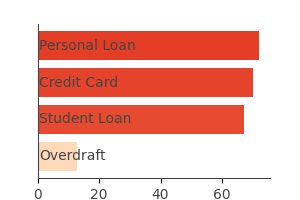
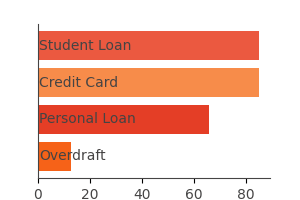
all graphs now use the same colour scheme

diff --git a/application/templates/debt_detail.html b/application/templates/debt_detail.html
@@ -7,19 +7,19 @@
 		{% if approach == 'stack' %}
 			<h1>Stack Repayments</h1>
 			<h4>Debt Free after {{ results.get_stack_time() }}</h4>
-			<p>&pound;{{ '{:,.2f}'.format(results.get_stack_cost()) }}</p>
+			<p>Total Repayment Cost &pound;{{ '{:,.2f}'.format(results.get_stack_cost()) }}</p>
 
 
 		{% elif approach == 'snowball' %}
 			<h1>Snowball Repayments</h1>
 			<h4>Debt Free after {{ results.get_snowball_time() }}</h4>
-			<p>&pound;{{ '{:,.2f}'.format(results.get_snowball_cost()) }}</p>
+			<p>Total Repayment Cost &pound;{{ '{:,.2f}'.format(results.get_snowball_cost()) }}</p>
 
 
 		{% else %}
 			<h1>Avalanche Repayments</h1>
 			<h4>Debt Free after {{ results.get_avalanche_time() }}</h4>
-			<p>&pound;{{ '{:,.2f}'.format(results.get_avalanche_cost()) }}</p>
+			<p>Total Repayment Cost &pound;{{ '{:,.2f}'.format(results.get_avalanche_cost()) }}</p>
 
 
 		{% endif %}
@@ -51,18 +51,13 @@
 	<!-- add bar chart and make them side by side for bigger screens -->
 
 	<div>
-		<p>Repayments Table Details:
-			<ul>
-				<li>Total Sum of Debt outstanding</li>
-				<li>Which Debt to target each month</li>
-				<li>The amount of the extra repayment</li>
-			</ul></p>
+		<p>Repayments Table</p>
 		<table class="debt_detail">
 			<tr>
-				<th></th>
-				<th>Balance</th>
-				<th></th>
-				<th>Amount £</th>
+				<th>Month</th>
+				<th>Outstanding</th>
+				<th>Targeted Debt</th>
+				<th>Extra Repayment</th>
 			</tr>
 			{% for method, data in results.get_repayments_dict().items() %}
 				{% if method == approach %}

diff --git a/application/templates/results.html b/application/templates/results.html
@@ -26,8 +26,7 @@
             </div>
 
             <div style="text-align: center;">
-                <p><span>Stack by interest rate</span></p>
-                <p>&pound;{{ '{:,.2f}'.format(results.get_stack_cost()) }}</p>
+                <p><span>Stack by interest rate<br>&pound;{{ '{:,.2f}'.format(results.get_stack_cost()) }}</span></p>
             </div>
 
             <div>
@@ -48,8 +47,7 @@
             </div>
 
             <div style="text-align: center;">
-                <p><span>Tackle smaller debts first</span></p>
-                <p>&pound;{{ '{:,.2f}'.format(results.get_snowball_cost()) }}</p>
+                <p><span>Tackle smaller debts first<br>&pound;{{ '{:,.2f}'.format(results.get_snowball_cost()) }}</span></p>
             </div>
 
             <div>
@@ -70,8 +68,7 @@
             </div>
 
             <div style="text-align: center;">
-                <p><span>Everything on the big debt</span></p>
-                <p>&pound;{{ '{:,.2f}'.format(results.get_avalanche_cost()) }}</p>
+                <p><span>Everything on the big debt<br>&pound;{{ '{:,.2f}'.format(results.get_avalanche_cost()) }}</span></p>
             </div>
 
             <div>

diff --git a/application/static/styles/style.css b/application/static/styles/style.css
@@ -99,11 +99,12 @@ tr {
 	background-color: #D2D4C8;
 	color: var(--links);
 	}
-.debt_detail tr:nth-child(12n + 2){
+.debt_detail tr:nth-child(12n + 1){
 	background-color: coral;
 }
 .debt_detail th, td {
-	padding: 0;
+	padding: 5px;
+	font-weight: 300;
 }
 .debt_detail tr {
 	text-align: center;

diff --git a/application/data_visualisation.py b/application/data_visualisation.py
@@ -15,23 +15,37 @@ class Graphs:
 		debt_labels = []
 		for debt_obj in self.debt_collection:
 			debt_names.append(debt_obj.get_identifier())
+			id = debt_obj.get_identifier()
 			apr = debt_obj.get_interest()
-			name = f"APR{apr}%"
+			name = f"{id}\nAPR{apr}%"
 			debt_labels.append(name)
 			debt_figures.append(debt_obj.get_amount())
 		self.debt_pie(debt_figures, debt_names, debt_labels)
 	
 	def debt_pie(self, debt_figures, debt_names, debt_labels):
 		plt.switch_backend('Agg') # this changes where the computer generates the chart because that causes a problem on the Mac but not on windows
-		plt.figure(figsize=(3,2))
+		#plt.figure(figsize=(4,2))
+		fig, ax = plt.subplots(figsize=(3,2))
 		orange_shades = ['#f66218', '#e43e26', '#f78c4a', '#eb5940', '#d4460e', '#f8a57d', '#c62f16', '#f26c51', '#d14113']
-		wedges, texts = plt.pie(debt_figures, labels=debt_names, labeldistance=0.5, colors=orange_shades)
-		plt.axis('equal')
+		wedges, texts = plt.pie(debt_figures, labeldistance=0.5, colors=orange_shades)
+		ax.axis('equal')
 		colour_rgb = (69/255, 68/255, 68/255)
-		for text in texts:
+		# for text in texts:
+		# 	text.set_color(colour_rgb)
+		# plt.title('Debt Summary', loc='left',  color=colour_rgb)
+		# Set title with adjusted x position
+		ax.set_title('Debt Summary', color=colour_rgb, x=0.5)  # Adjust the x value as needed
+
+
+		# Adjust the position of the axes
+		box = ax.get_position()
+		ax.set_position([box.x0 - 0.25, box.y0, box.width, box.height])  
+		# Adjust the x0 position
+
+
+		legend = ax.legend(labels=debt_labels, loc="upper right", bbox_to_anchor=(1.5, 1), framealpha=0) #Framealpha makes the background of the legend transparent
+		for text in legend.get_texts():
 			text.set_color(colour_rgb)
-		plt.title('Debt Summary', loc='left', color=colour_rgb)
-		# plt.legend(labels=debt_labels, loc="upper right")
 		plt.savefig('application/static/images/debt_pie.png', transparent=True)
 		return 'pie chart created'
 	
@@ -57,10 +71,8 @@ class Graphs:
 	
 	def debt_bar_stack(self, debt_name, paid):
 		plt.figure(figsize=(3,2))
-		cmap = mcolors.LinearSegmentedColormap.from_list('custom_orange', ['#FFDAB9', '#e43e26'])
-		norm = plt.Normalize(min(paid), max(paid))
-		colors = cmap(norm(paid))
-		bars = plt.barh(debt_name, paid, color=colors)
+		orange_shades = ['#f66218', '#e43e26', '#f78c4a', '#eb5940', '#d4460e', '#f8a57d', '#c62f16', '#f26c51', '#d14113']
+		bars = plt.barh(debt_name, paid, color=orange_shades)
 		colour_rgb = (69/255, 68/255, 68/255)
 		ax = plt.gca()
 		ax.spines['top'].set_visible(False)
@@ -81,10 +93,8 @@ class Graphs:
 
 	def debt_bar_snowball(self, debt_name, paid):
 		plt.figure(figsize=(3,2))
-		cmap = mcolors.LinearSegmentedColormap.from_list('custom_orange', ['#FFDAB9', '#e43e26'])
-		norm = plt.Normalize(min(paid), max(paid))
-		colors = cmap(norm(paid))
-		bars = plt.barh(debt_name, paid, color=colors)
+		orange_shades = ['#f66218', '#e43e26', '#f78c4a', '#eb5940', '#d4460e', '#f8a57d', '#c62f16', '#f26c51', '#d14113']
+		bars = plt.barh(debt_name, paid, color=orange_shades)
 		colour_rgb = (69/255, 68/255, 68/255)
 		ax = plt.gca()
 		ax.spines['top'].set_visible(False)

diff --git a/application/calculator.py b/application/calculator.py
@@ -73,7 +73,7 @@ class Calculator:
 		for debt_obj in self._debt_list:
 			debt_obj.reset_balance()
 
-		self._repayments_list.append(['Month', self._total_balance, 'Targeted Debt', 'Extra Repayment'])
+		#self._repayments_list.append(['Month', self._total_balance, 'Targeted Debt', 'Extra Repayment'])
 		
 
 		# cycle through the debts until total debt balance = 0
